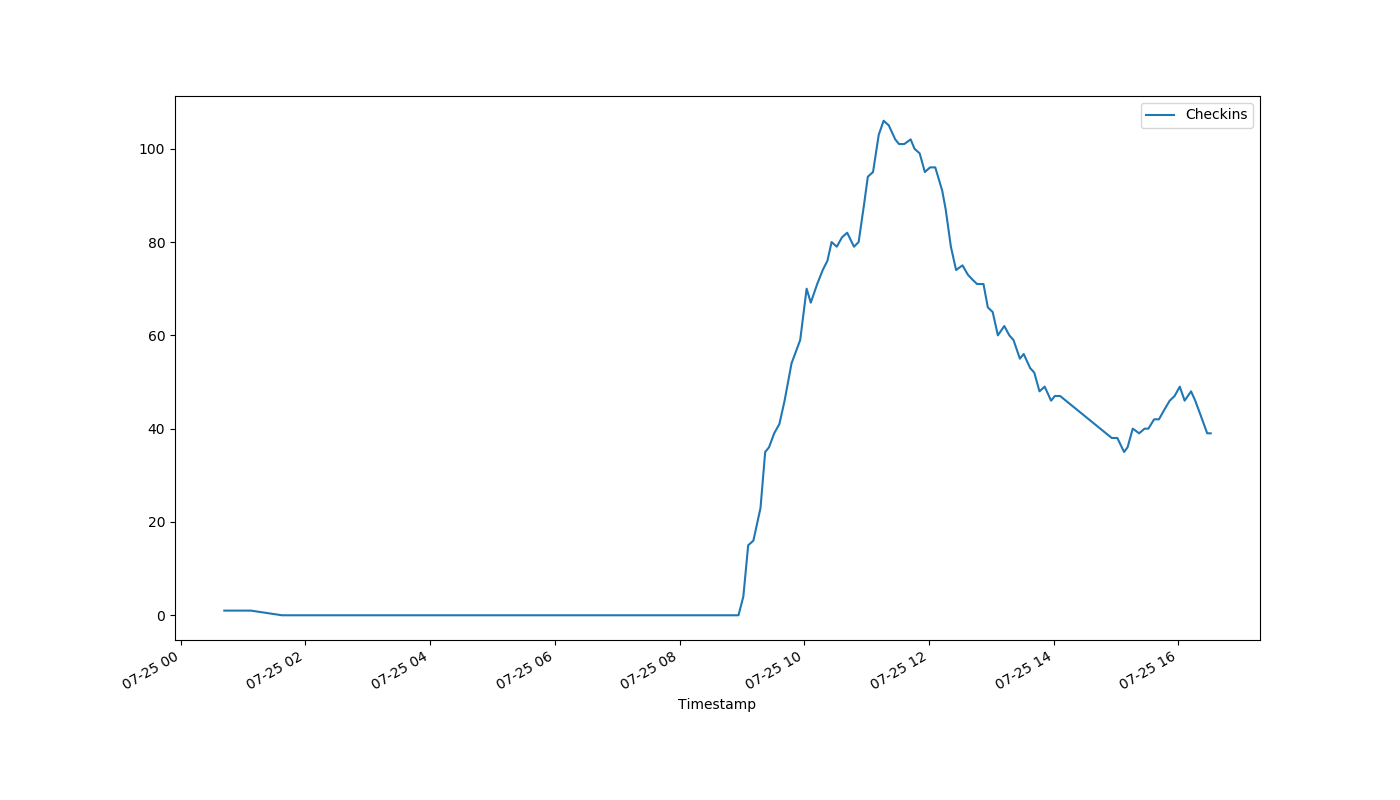
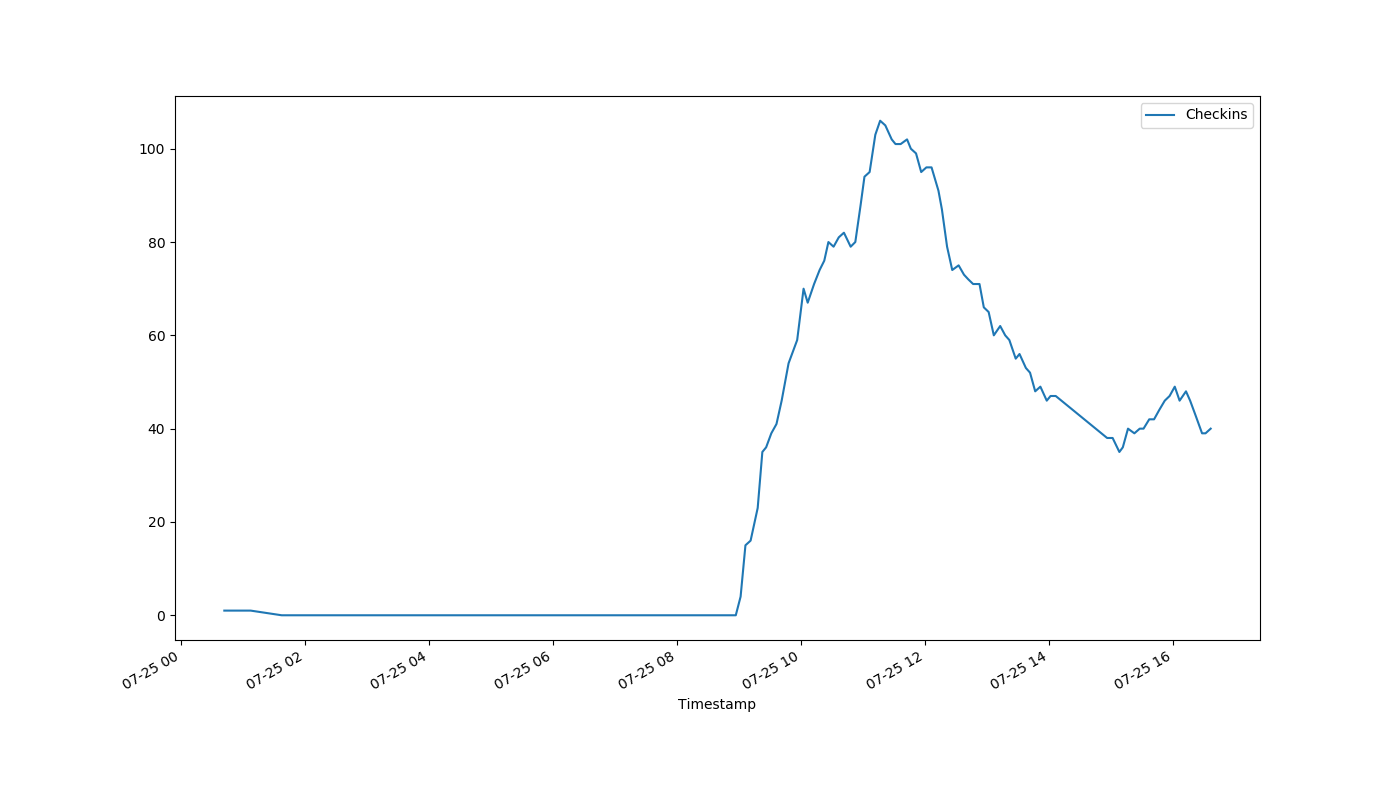
auto-Jul-25-16:37:47

diff --git a/index.html b/index.html
@@ -1,1 +1,1 @@
-<!DOCTYPE html><html><head><meta http-equiv="refresh" content="30"><link rel='stylesheet' href='holmcurrent.css'></head><body><p id='count'>39</p><div id='graph-wrap'><img id='graph' src='holmgraph-Jul-25.png'></div><p id='updated'>Last updated 16:31:09 / 16:31:04</p></body></html>
+<!DOCTYPE html><html><head><meta http-equiv="refresh" content="30"><link rel='stylesheet' href='holmcurrent.css'></head><body><p id='count'>40</p><div id='graph-wrap'><img id='graph' src='holmgraph-Jul-25.png'></div><p id='updated'>Last updated 16:36:09 / 16:36:04</p></body></html>
